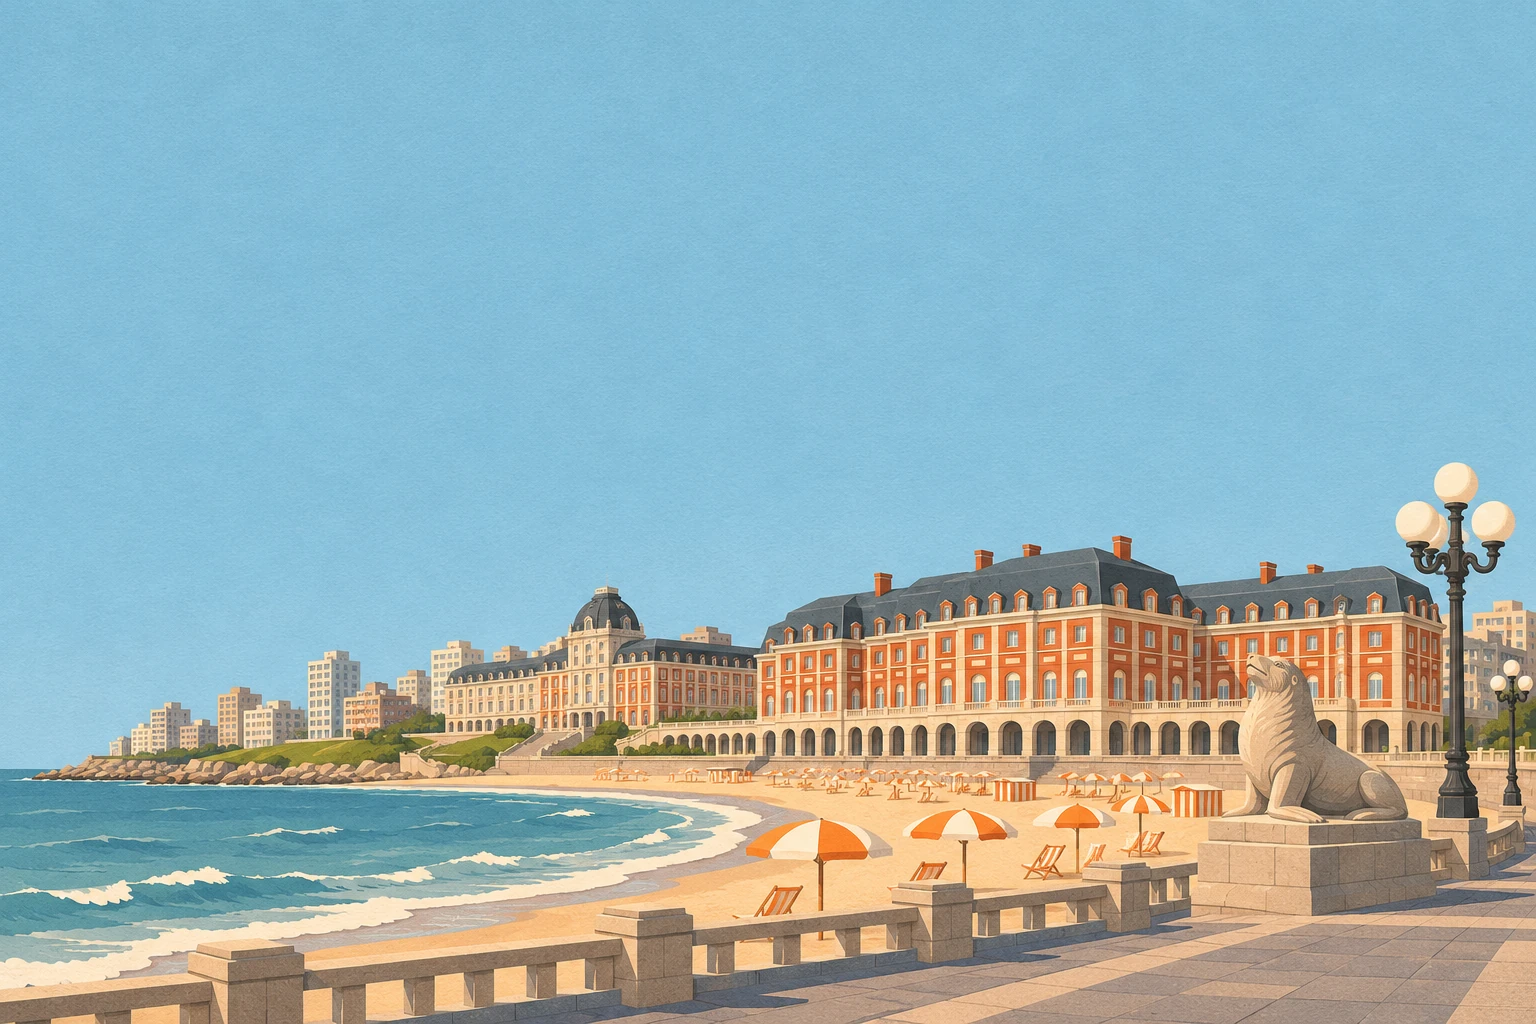
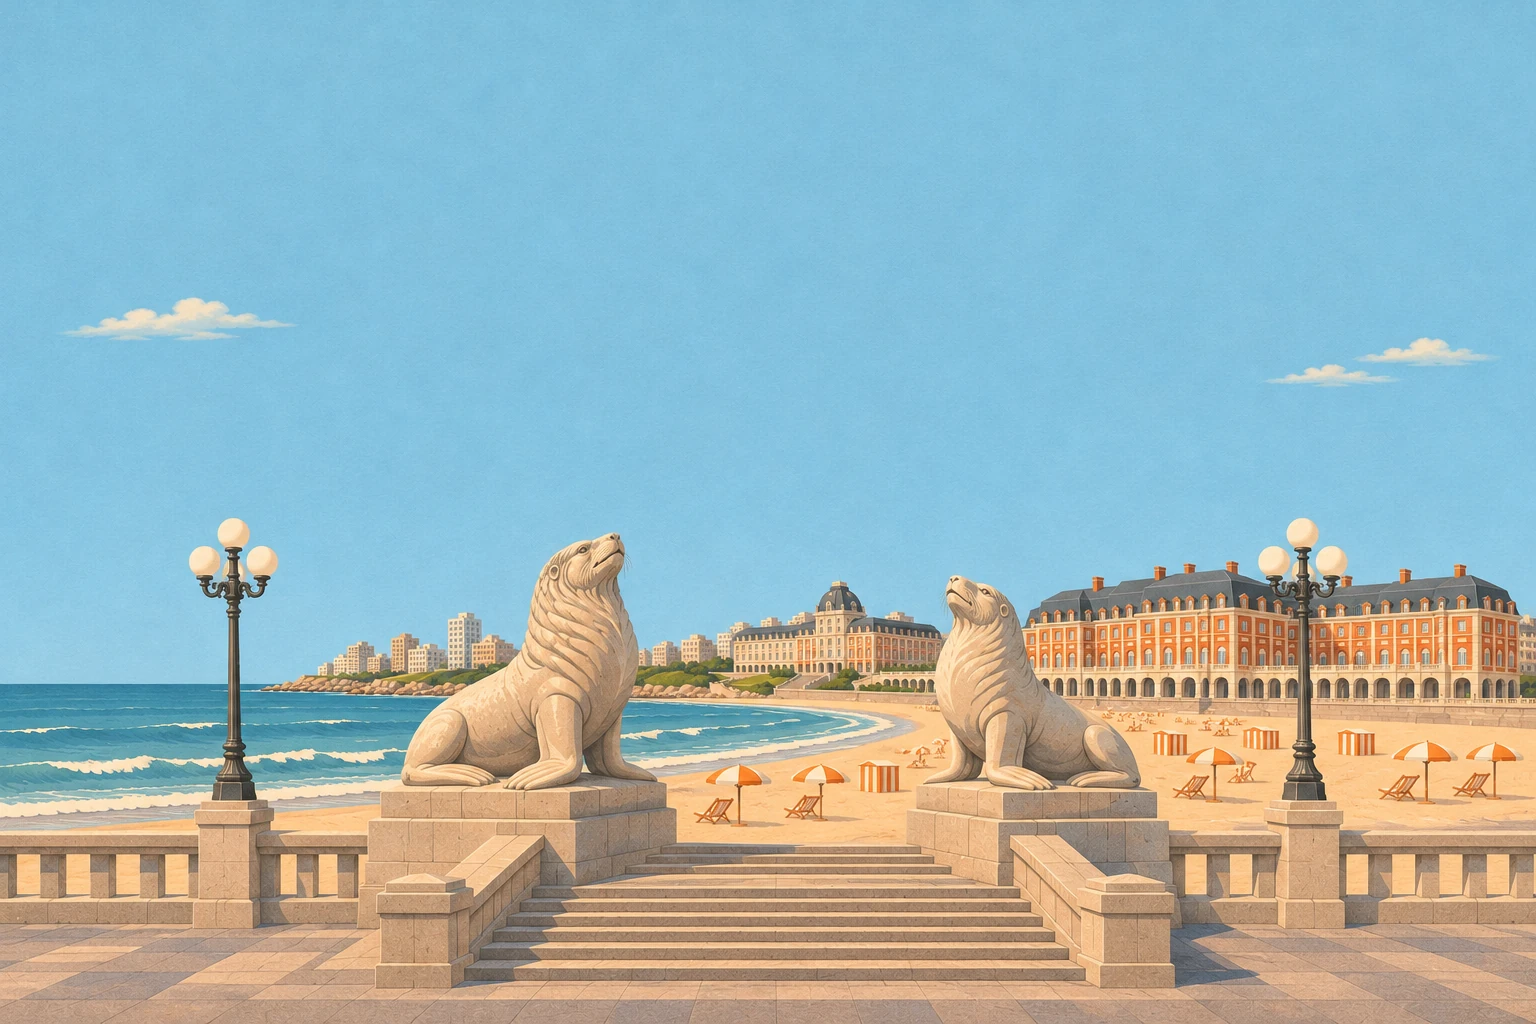
feat: polish coastal artwork and chapter transitions

diff --git a/src/game/presentation.ts b/src/game/presentation.ts
@@ -11,6 +11,14 @@ interface Spark { x: number; y: number; vx: number; vy: number; start: number; l
 interface ScorePop { x: number; y: number; start: number; points: number }
 interface Viewport { width: number; height: number; ratio: number }
 
+/** Saved simulation time makes chapter dissolves pause/retry safe and independent of lookahead. */
+export function coastalBlend(checkpoints: number, elapsed: number, checkpointElapsed: number) {
+  const current = chapterAt(checkpoints);
+  const changing = checkpoints === 2 || checkpoints === 4;
+  const progress = changing ? Math.max(0, Math.min(1, (elapsed - checkpointElapsed) / 4)) : 1;
+  return { current, previous: changing ? current - 1 : current, mix: progress * progress * (3 - 2 * progress) };
+}
+
 export function flightView(width: number, height: number) {
   const scale = viewScale(width, height);
   return { scale, width: width / scale, y: (height - flight.height * scale) / 2, x: Math.max(0, width / scale * .2 - flight.playerX) };
@@ -95,15 +103,29 @@ export function createPresentation(surface: HTMLElement) {
     // Keep live transforms bilinear; high-quality resampling stalls large Retina canvases.
     ctx.imageSmoothingQuality = 'low';
     ctx.fillStyle = '#79bbcd'; ctx.fillRect(0, 0, width, height);
-    // Mirrored plates keep the scrolling horizon continuous without a hard seam.
-    const skyWidth = Math.max(width, height * 1.5), skyHeight = skyWidth / 1.5;
-    const skyOffset = motion.matches ? 0 : distance * .065 * view.scale;
-    const tile = Math.floor(skyOffset / skyWidth), scroll = skyOffset % skyWidth;
-    for (let i = -1; i < 2; i++) {
-      ctx.save(); ctx.translate(i * skyWidth - scroll - Math.max(0, skyWidth-width)*.55, (height - skyHeight) / 2);
-      if ((tile + i) % 2 !== 0) { ctx.translate(skyWidth, 0); ctx.scale(-1, 1); }
-      ctx.drawImage(chapterAt(run.checkpoint.number) === 0 ? images.sky! : chapterAt(run.checkpoint.number) === 1 ? images.beach! : images.central!, 0, 0, skyWidth, skyHeight); ctx.restore();
+    // One panorama per place: architecture never repeats or flips at a tile edge.
+    // Fit the coast across narrow screens, extending only its quiet top sky upwards.
+    const skyWidth = width * 1.06, skyHeight = skyWidth / 1.5;
+    const skyY = height - skyHeight;
+    const pan = motion.matches ? .5 : .5 + Math.sin(distance / 18000) * .5;
+    const skyX = -(skyWidth - width) * pan;
+    const plates = [images.sky!, images.beach!, images.central!];
+    const skyColors = ['#90c6d8', '#86bcd0', '#7fbedb'];
+    const blend = titleTime !== undefined ? { current: 0, previous: 0, mix: 1 }
+      : coastalBlend(run.checkpoint.number, run.elapsed, run.checkpoint.state.elapsed);
+    function panorama(index: number, opacity: number) {
+      ctx.globalAlpha = opacity;
+      if (skyY > 0) { ctx.fillStyle = skyColors[index]!; ctx.fillRect(0, 0, width, skyY + 1); }
+      ctx.drawImage(plates[index]!, skyX, skyY, skyWidth, skyHeight);
+      if (skyY > 0) {
+        const edge = ctx.createLinearGradient(0, skyY, 0, skyY + skyHeight * .12);
+        edge.addColorStop(0, skyColors[index]!); edge.addColorStop(1, `${skyColors[index]}00`);
+        ctx.fillStyle = edge; ctx.fillRect(0, skyY, width, skyHeight * .12);
+      }
     }
+    if (blend.mix < 1) panorama(blend.previous, 1);
+    if (blend.mix > 0) panorama(blend.current, blend.mix);
+    ctx.globalAlpha = 1;
     ctx.setTransform(view.scale * ratio, 0, 0, view.scale * ratio, view.x * view.scale * ratio, view.y * ratio);
     const worldWidth = view.width;
     function bee(frame: number, x: number, y: number, size: number = courier.size, flip = false) {
@@ -125,12 +147,24 @@ export function createPresentation(surface: HTMLElement) {
       ctx.fillStyle='#f8c477'; ctx.fillRect(-35,-38,36,22); ctx.fillStyle='#4a4a4a'; ctx.fillRect(-19,-16,2,20);
       ctx.font='800 10px system-ui'; ctx.textAlign='center'; ctx.fillText('LGTM',-17,-23); ctx.restore();
     }
-    // A few coworkers inhabit the coast. These never enter collision or route state.
+    // Small coastal workstations are decorative; captions follow the five flight legs.
     if (titleTime !== undefined || run.status !== 'victory') {
-      const scenicX = worldWidth - view.x - 100;
-      bee(2, scenicX, 500 + Math.sin(decorative * 2) * 3, 49, true);
-      if (chapterAt(run.checkpoint.number) === 0) reviewer(scenicX - 65, 555, .8);
-      else if (chapterAt(run.checkpoint.number) === 1) label('Works on my beach.', scenicX - 35, 553);
+      const scenicX = worldWidth - view.x - 112;
+      const scenicY = (height - Math.max(64 * view.scale, skyHeight * .1) - view.y) / view.scale;
+      const leg = titleTime !== undefined ? 0 : Math.min(4, run.checkpoint.number);
+      ctx.save(); ctx.translate(0, scenicY - 533);
+      bee(0, scenicX + 24, 510 + Math.sin(decorative * 2) * 2, 49, true);
+      ctx.fillStyle = '#996742'; ctx.fillRect(scenicX - 42, 533, 90, 5);
+      ctx.fillRect(scenicX - 35, 538, 4, 17); ctx.fillRect(scenicX + 37, 538, 4, 17);
+      ctx.fillStyle = '#394b50'; ctx.beginPath(); ctx.roundRect(scenicX - 26, 505, 36, 27, 3); ctx.fill();
+      ctx.fillStyle = '#b1fff2'; ctx.font = '800 11px monospace'; ctx.textAlign = 'center';
+      ctx.fillText(leg >= 3 ? 'AI' : '</>', scenicX - 8, 523);
+      ctx.fillStyle = '#607a7c'; ctx.fillRect(scenicX - 30, 531, 44, 3);
+      if (leg === 0) reviewer(scenicX - 79, 548, .65);
+      if (leg === 4) ctx.drawImage(images.objects!, 0, 512, 512, 512, scenicX - 64, 500, 31, 34);
+      const captions = ['404: office not found.', 'git checkout -- playa', 'Works on my beach.', 'Prompt: más churros.', 'LLM: Lobo Language Model'];
+      label(captions[leg]!, scenicX - 12, 574, Math.max(10, 9 / view.scale));
+      ctx.restore();
     }
     function drawBeacon(frame: number, x: number, y: number) {
       ctx.save(); ctx.translate(x,y);

diff --git a/src/game/art/README.md b/src/game/art/README.md
@@ -4,23 +4,25 @@ Original game illustrations generated with OpenAI's built-in image generation to
 
 The official `binagora-logo.png` (474×132) and `binagora-icon.png` (192×192) are faithful, unmodified company marks downloaded from [Binagora's logo](https://binagora.com/images/logo.png) and [icon](https://binagora.com/favicons/android-icon-192x192.png). They remain Binagora's property, packaged for this company event game at the user's direction, and are excluded from the original-art MIT grant. Do not reuse them as a generic art pack. No third-party marketing photography is included in the game.
 
-The hotel illustration references the [official hotel](https://www.hermitagehotel.com.ar/) and [MPMC exterior gallery](https://mpmcarquitectos.com/hotel-hermitage/), including its [facade photograph](https://mpmcarquitectos.com/wp-content/gallery/hotel-hermitage/Hermitage-02.jpg). The illustrated hotel preserves the stepped three-part massing, red walls, cream trim, slate mansard roofs, pale base and one readable hotel sign. Coastal plates interpret El Puerto, Playa Grande, Torreón del Monje and the Rambla as a stylized montage. Food references imply no sponsorship.
+The hotel illustration references the [official hotel](https://www.hermitagehotel.com.ar/) and [MPMC exterior gallery](https://mpmcarquitectos.com/hotel-hermitage/), including its [facade photograph](https://mpmcarquitectos.com/wp-content/gallery/hotel-hermitage/Hermitage-02.jpg). The illustrated hotel preserves the stepped three-part massing, red walls, cream trim, slate mansard roofs, pale base and one readable hotel sign. Coastal plates interpret El Puerto, Playa Grande, Torreón del Monje and the Rambla as a stylized montage. The central plate prominently interprets the pair of [Fioravanti sea-lion monuments on the Rambla](https://www.argentina.gob.ar/escultura-lobos-marinos), also represented by the collectible stone souvenir. Food references imply no sponsorship.
 
 ## Runtime contracts
 
 | File | Contract |
 | --- | --- |
 | `courier.webp` | 1024×1024 transparent sheet, four complete 512×512 bee cels: glide, thrust, delight, glide alternate |
-| `objects.webp` | 1024×1024 transparent atlas: top-left alfajor, top-right churros, bottom-left duck, bottom-right gull |
-| `coast.webp`, `beach.webp`, `central.webp` | 1536×1024 opaque coastal chapters, mirrored scrolling plates |
+| `objects.webp` | 1024×1024 transparent atlas: top-left alfajor, top-right churros, bottom-left stone sea-lion souvenir, bottom-right complete gull and stolen churro |
+| `coast.webp`, `beach.webp`, `central.webp` | 1536×1024 opaque coastal chapters, each drawn once with bounded panning and four-second checkpoint dissolves |
 | `hotel.webp` | 1536×1024 transparent, complete hotel elevation |
 | `binagora-logo.png` | Official 474×132 full company mark, menu and required-art gate |
 | `binagora-icon.png` | Official 192×192 bee-and-hash mark, favicon |
 
-The bee uses a 94-unit square anchored at 55% across and 60% down. Wing animation switches complete cels, with a brief delighted cel on collection. The body/bag pickup envelope is owned by `content.ts`, independently of the forgiving 16-unit hazard radius. Food/duck images draw at 34 units with the same 13×13-unit diamond collection envelope. The gull draws at 94 units around its unchanged 35-unit collision radius. Wings and beak extend beyond its forgiving contact body.
+The detailed charcoal bee wears amber sunglasses and a travel satchel, with textured fur, articulated legs and veined translucent wings. It uses a 94-unit square anchored at 55% across and 60% down. Wing animation switches complete cels, with a brief delighted cel on collection. The body/bag pickup envelope is owned by `content.ts`, independently of the forgiving 16-unit hazard radius. Food/souvenir images draw at 34 units with the same 13×13-unit diamond collection envelope. The gull draws at 94 units around its unchanged 35-unit collision radius. Its wings, beak and entire stolen churro are contained in its runtime cel with transparent padding.
+
+Landmarks never tile or mirror. Each panorama fits across the viewport, with its quiet top sky extended upwards on tall screens so the coastline and both monuments remain visible. A bounded six-percent pan provides gentle movement. Chapter dissolves use elapsed simulation time relative to the saved checkpoint, so pause freezes them and continuation restores the outgoing scene. The final checkpoint retains the Rambla. Coastal laptop workstations carry small developer/AI jokes, including the Lobo Language Model, without entering simulation state.
 
 Solid stone structures fill the actual top/bottom collision regions. Their terracotta caps and cream warning stripes mark dangerous edges. Event beacons are Canvas-authored orange hash badges with a one-time activation bloom. Crowd members repeat the complete bee cels with bounded pose, direction, cup and scarf variants. The decorative reviewer, table, captions and confetti are Canvas-owned, without simulation rules.
 
 ## Repacking
 
-Run `pnpm art:pack`. The 1254×1254 bee/object sources resize as whole sheets to 1024×1024, preserving alpha and fixed cell boundaries. Do not independently trim bee frames. Chapter plates and the hotel resize to 1536×1024 and encode as WebP. Original PNGs remain authoring inputs and do not enter the browser build. `art.ts` validates decoded dimensions before play; `presentation.ts` owns footprints, cells and pivots. All runtime paths are static and relative.
+Run `pnpm art:pack`. The 1254×1254 bee source resizes as a whole sheet to 1024×1024, preserving alpha and fixed cell boundaries. Do not independently trim bee frames. The object source uses explicit complete-object rectangles in `pack.mjs`: the gull's churro extends slightly left of the nominal quadrant, so its crop starts at x=575 rather than x=627. Each crop is contained in a 448×448 area with an additional 32 transparent pixels on every side of its 512×512 runtime cel. Chapter plates and the hotel resize to 1536×1024 and encode as WebP. Original PNGs remain authoring inputs and do not enter the browser build. `art.ts` validates decoded dimensions before play; `presentation.ts` owns footprints, cells and pivots. All runtime paths are static and relative.

diff --git a/docs/game.md b/docs/game.md
@@ -12,7 +12,7 @@ Event hash beacons activate once: “Checkpoint committed.” Continue restores 
 
 ## Collectibles and collision
 
-Alfajores are the recurring reward, with churros and rubber ducks as occasional appearances. All share one score and shield path. Distance awards one point per displayed meter. Collectibles start at 25 points; five consecutive pickups raise subsequent values through ×2, ×3 and ×4. Missing a reward behind the rear flight slot resets the streak once. Cosmetic missed rewards remain until the viewport clips them.
+Alfajores are the recurring reward, with churros and miniature stone sea-lion souvenirs as occasional appearances. All share one score and shield path. Distance awards one point per displayed meter. Collectibles start at 25 points; five consecutive pickups raise subsequent values through ×2, ×3 and ×4. Missing a reward behind the rear flight slot resets the streak once. Cosmetic missed rewards remain until the viewport clips them.
 
 The bee deliberately replaces the rider/scooter pickup hull with a body-and-bag octagon spanning ±25 units horizontally and −23 to +25 vertically. Wings and antennae are decorative. The forgiving 16-unit circular hazard body is unchanged. Rewards use a 13-by-13 half-size diamond envelope, replacing the narrow crystal's 10-by-15 envelope. Swept collection still catches fast travel and lateral crossings. Stone fills the actual top/bottom collision regions, and the gull uses the original moving hazard's 35-unit radius and position.
 
@@ -20,7 +20,7 @@ Thirty collectibles charge a five-second Hive Shield. Its bubble and meter show 
 
 ## Art, sound and reunion
 
-Binagora's unmodified official logo sits in a padded light menu. Orange `#F59E2B`, gray `#4A4A4A`, charcoal, cream and Atlantic blue carry the event identity. Complete authored bee cels have expressive wings, antennae, tilt, collection delight and a small travel bag. Original coastal plates, solid stone hazards, food atlas and hotel elevation replace the prior fantasy art. [Art contracts and provenance](../src/game/art/README.md) describe assets and packing.
+Binagora's unmodified official logo sits in a padded light menu. Orange `#F59E2B`, gray `#4A4A4A`, charcoal, cream and Atlantic blue carry the event identity. Complete authored bee cels have textured fur, amber sunglasses, veined wings, antennae, tilt, collection delight and a small travel bag. Original coastal plates, solid stone hazards, food/souvenir atlas and hotel elevation replace the prior fantasy art. The Rambla's two iconic stone sea-lion monuments frame the central chapter. Each panorama appears once, with bounded drift and a four-second dissolve on chapter changes instead of repeated mirrored architecture. Narrow views retain the coastline across their width. Small laptop workstations add developer and AI jokes such as “git checkout -- playa”, “Prompt: más churros.” and “LLM: Lobo Language Model”. [Art contracts and provenance](../src/game/art/README.md) describe assets and packing.
 
 The Hermitage arrival ends hazards and scoring. A roughly 3.5-second decorative glide joins a large bounded crowd of bees below the complete hotel frontage. “Welcome to Binagora Week 2026” and “The whole hive, together.” accompany honest current-run results and an immediately available Restart button. The full crowd is awarded for reaching the destination. Confetti ends after four seconds, while reduced motion shows the complete static welcome. Food and the LGTM sea lion remain supporting details.
 
